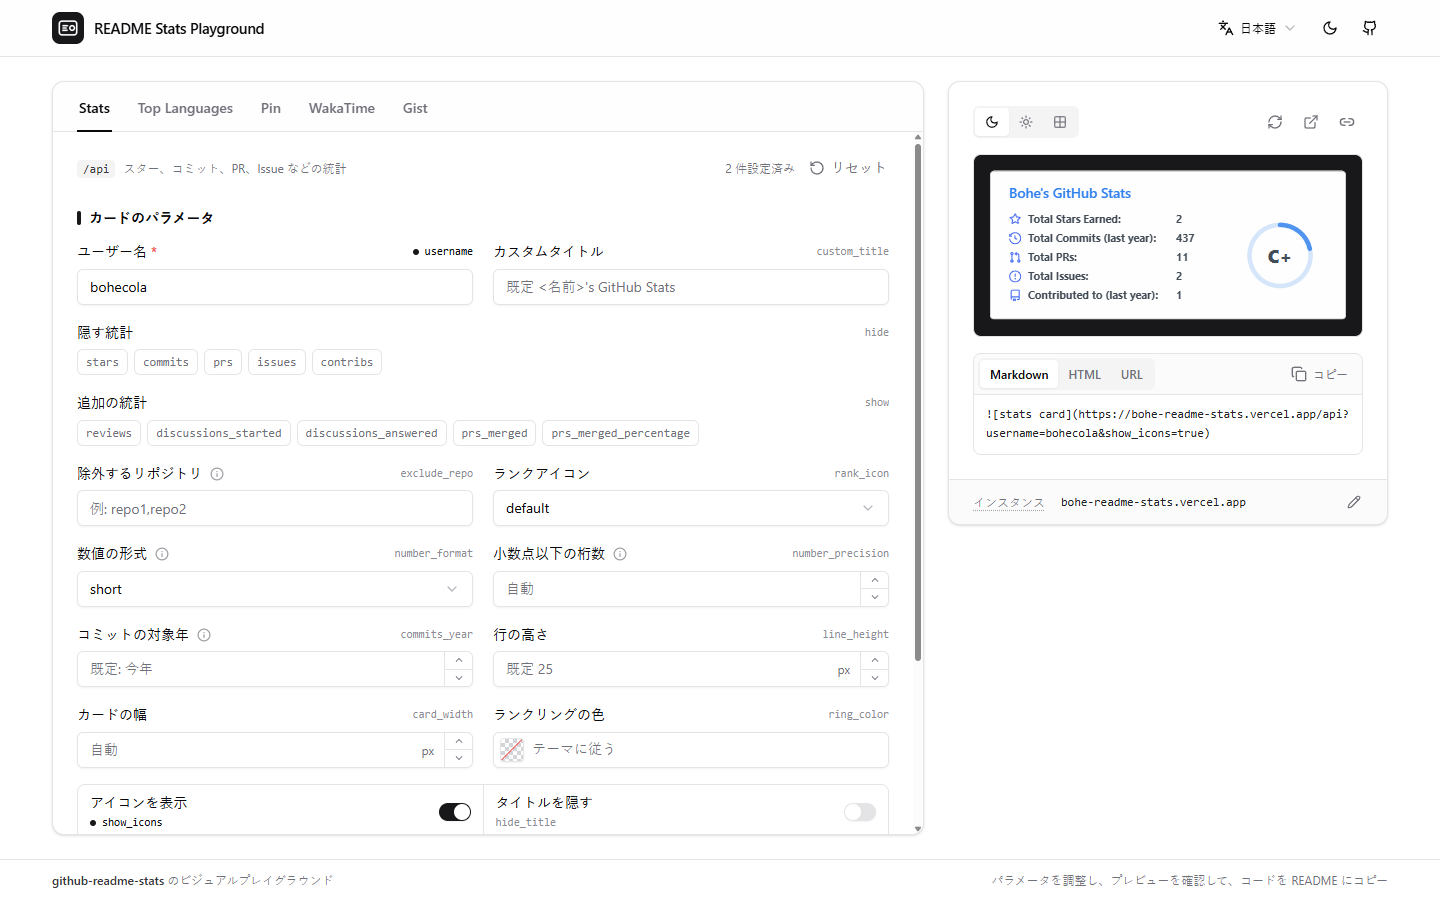
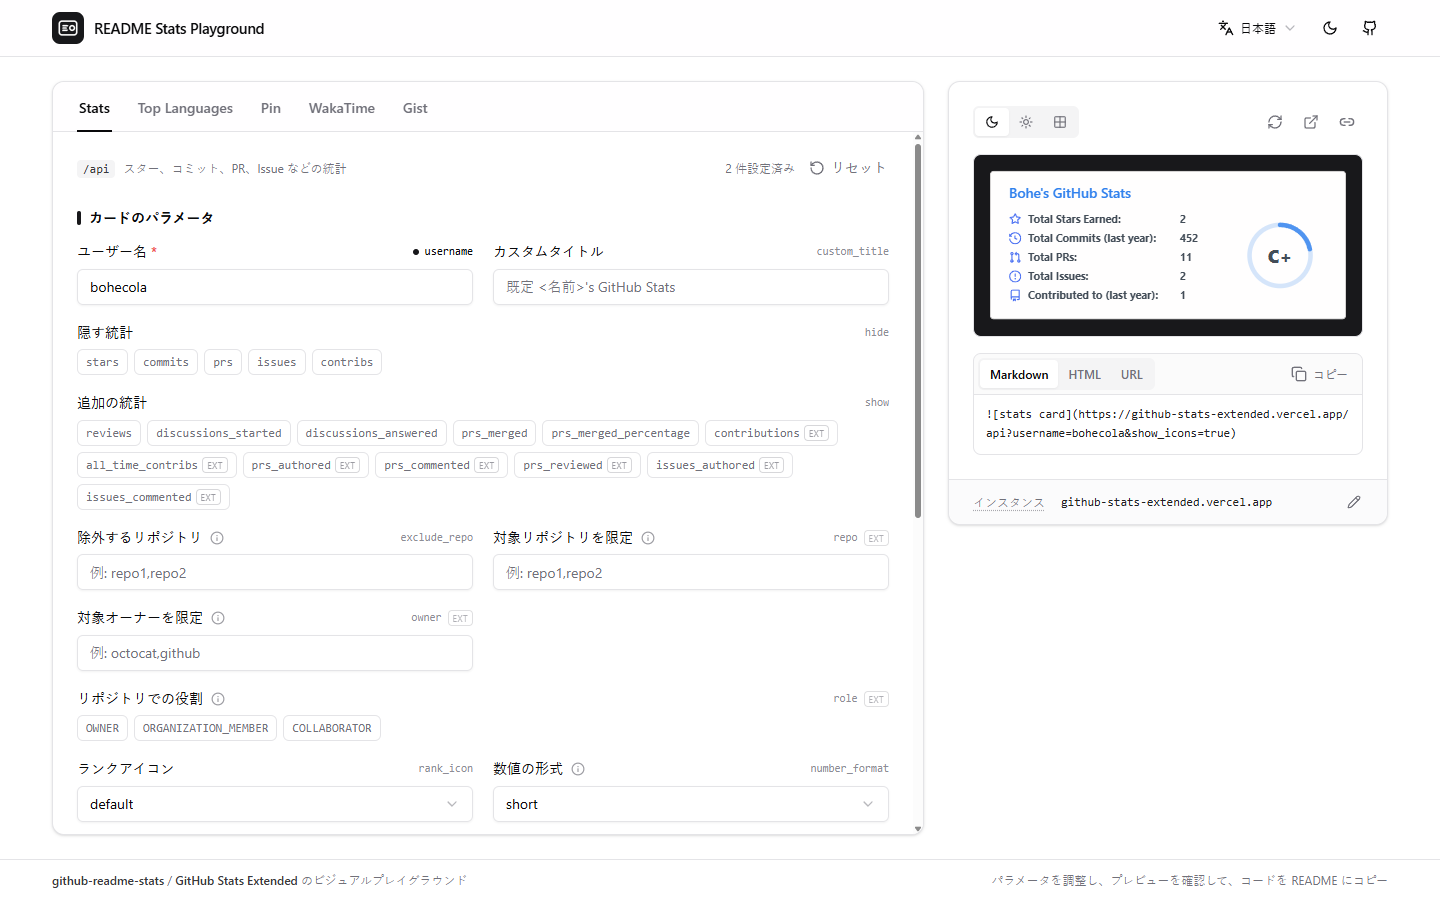
docs: mention both card backends everywhere; refresh screenshots
Site metadata (description, Open Graph, JSON-LD isBasedOn), package
description/keywords, the footer credit (now linking both projects),
.env.example and the READMEs describe github-readme-stats and GitHub
Stats Extended as the supported backends; instance wording no longer
assumes the original project. Screenshots and the OG image retaken
against a GitHub Stats Extended instance, showing the "ext" tags.

Claude-Session: https://claude.ai/code/session_0125tYXYZE5TwABCDzra6nNm

diff --git a/src/App.tsx b/src/App.tsx
@@ -13,6 +13,7 @@ import { Card, CardContent } from "@/components/ui/card"
 import {
   DEFAULT_BASE_URL,
   DEFAULT_USERNAME,
+  EXTENDED_REPO_URL,
   REPO_URL,
   SUGGESTED_INSTANCE_URL,
   UPSTREAM_REPO_URL,
@@ -354,17 +355,10 @@ export default function App() {
             <Trans
               i18nKey="app.footerBuiltOn"
               components={{
-                repo: (
-                  // Text comes from the translation's <repo>…</repo> (not <link>: that is a void
-                  // HTML element, so the parser would leave the link empty).
-                  // eslint-disable-next-line jsx-a11y/anchor-has-content
-                  <a
-                    href={UPSTREAM_REPO_URL}
-                    target="_blank"
-                    rel="noreferrer"
-                    className="font-medium text-foreground/80 underline-offset-4 hover:text-foreground hover:underline"
-                  />
-                ),
+                // Text comes from the translation's <repo>…</repo> / <extended>…</extended>
+                // (not <link>: that is a void HTML element, so the parser would leave it empty).
+                repo: <a href={UPSTREAM_REPO_URL} target="_blank" rel="noreferrer" className={footerLink} />,
+                extended: <a href={EXTENDED_REPO_URL} target="_blank" rel="noreferrer" className={footerLink} />,
               }}
             />
           </p>
@@ -374,6 +368,9 @@ export default function App() {
     </div>
   )
 }
+
+const footerLink =
+  "font-medium text-foreground/80 underline-offset-4 hover:text-foreground hover:underline"
 
 /** "https://example.com/" -> "example.com": the full URL lives in the editor and tooltip. */
 const displayHost = (url: string) => url.trim().replace(/^https?:\/\//, "").replace(/\/+$/, "")

diff --git a/index.html b/index.html
@@ -6,7 +6,7 @@
     <meta name="viewport" content="width=device-width, initial-scale=1.0, viewport-fit=cover" />
     <meta
       name="description"
-      content="A visual playground for github-readme-stats: tweak card parameters, preview live, and copy the code into your README."
+      content="Visual playground for github-readme-stats and GitHub Stats Extended cards: tweak parameters, preview live, copy the Markdown for your GitHub profile README."
     />
     <title>README Stats Playground</title>
     <meta name="theme-color" content="#ffffff" media="(prefers-color-scheme: light)" />
@@ -17,13 +17,13 @@
     <meta property="og:title" content="README Stats Playground" />
     <meta
       property="og:description"
-      content="Visual playground for github-readme-stats cards: tweak parameters, preview live, copy the Markdown for your GitHub profile README."
+      content="Visual playground for github-readme-stats and GitHub Stats Extended cards: tweak parameters, preview live, copy the Markdown for your GitHub profile README."
     />
     <meta name="twitter:card" content="summary_large_image" />
     <meta name="twitter:title" content="README Stats Playground" />
     <meta
       name="twitter:description"
-      content="Visual playground for github-readme-stats cards: tweak parameters, preview live, copy the Markdown for your GitHub profile README."
+      content="Visual playground for github-readme-stats and GitHub Stats Extended cards: tweak parameters, preview live, copy the Markdown for your GitHub profile README."
     />
     <script>
       // Apply the saved (or system) theme before paint to avoid a flash.

diff --git a/vite.config.ts b/vite.config.ts
@@ -44,14 +44,14 @@ function siteMeta(siteUrl: string | undefined): Plugin {
         name: "README Stats Playground",
         url,
         description:
-          "Visual playground for github-readme-stats cards: tweak parameters, preview live, copy the Markdown for your GitHub profile README.",
+          "Visual playground for github-readme-stats and GitHub Stats Extended cards: tweak parameters, preview live, copy the Markdown for your GitHub profile README.",
         applicationCategory: "DeveloperApplication",
         operatingSystem: "Any",
         browserRequirements: "Requires JavaScript",
         isAccessibleForFree: true,
         image: `${base}/og.png`,
         sameAs: "https://github.com/bohecola/readme-stats-playground",
-        isBasedOn: "https://github.com/anuraghazra/github-readme-stats",
+        isBasedOn: ["https://github.com/anuraghazra/github-readme-stats", "https://github.com/stats-organization/github-stats-extended"],
       }
       return [
         { tag: "link", attrs: { rel: "canonical", href: url }, injectTo: "head" },

diff --git a/README.md b/README.md
@@ -5,7 +5,7 @@
 
 English | [简体中文](./README.zh-CN.md) | [日本語](./README.ja.md)
 
-A visual playground for [github-readme-stats](https://github.com/anuraghazra/github-readme-stats) cards: tweak parameters on the left, preview live on the right, and copy the URL / Markdown / HTML straight into your GitHub profile README.
+A visual playground for [github-readme-stats](https://github.com/anuraghazra/github-readme-stats) and [GitHub Stats Extended](https://github.com/stats-organization/github-stats-extended) cards: tweak parameters on the left, preview live on the right, and copy the URL / Markdown / HTML straight into your GitHub profile README.
 
 **Try it: [readme-stats.deore.me](https://readme-stats.deore.me)**
 
@@ -39,7 +39,7 @@ Defaults are set with build-time env vars. Copy `.env.example` to `.env.local` (
 
 | Variable | Description | Default |
 | --- | --- | --- |
-| `VITE_DEFAULT_BASE_URL` | github-readme-stats instance used until a visitor enters their own | empty — visitors enter their instance |
+| `VITE_DEFAULT_BASE_URL` | Card instance (github-readme-stats or GitHub Stats Extended) used until a visitor picks their own | empty — visitors pick their instance |
 | `VITE_DEFAULT_USERNAME` | GitHub username pre-filled on first visit | empty |
 | `VITE_SITE_URL` | Public URL of the deployment; when set, the build emits the canonical link, Open Graph image and JSON-LD for search engines and AI crawlers | empty |
 
@@ -53,7 +53,7 @@ It's a fully static site: run `pnpm build` and deploy `dist/` to any static host
 
 Self-hosting isn't required to use the playground, but it's worth it if you want:
 
-- **your own github-readme-stats instance pre-filled** (`VITE_DEFAULT_BASE_URL`), so nobody has to enter one;
+- **your own card instance pre-filled** (`VITE_DEFAULT_BASE_URL`), so nobody has to pick one;
 - your own domain;
 - no dependency on someone else's deployment.
 
@@ -67,7 +67,7 @@ Or manually on Vercel / Netlify / Cloudflare Pages: import the repo, build comma
 
 ## Troubleshooting
 
-Errors shown in the preview come from the github-readme-stats instance you're using; the playground just displays them:
+Errors shown in the preview come from the card instance you're using; the playground just displays them:
 
 | Message | Cause | Fix |
 | --- | --- | --- |
